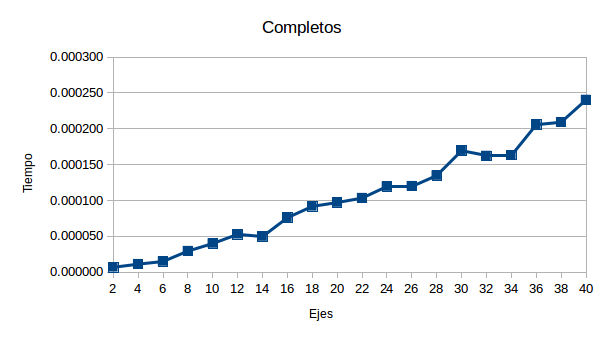
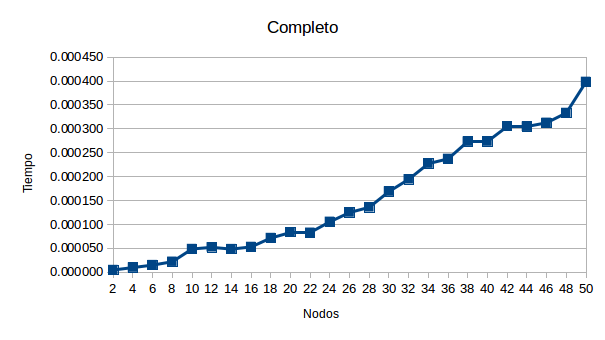
ej2

diff --git a/TP3/Informe/ej2.tex b/TP3/Informe/ej2.tex
@@ -16,13 +16,17 @@ En ella va a quedar la soluci\'on buscada luego de correr el algoritmo.\\
 
 La poda que implementamos consisti\'o en verificar que una futura soluci\'on posible no cuente con una cantidad igual o superior de nodos que la soluci\'on \'optima obtenida hasta el momento. 
 Esto quiere decir que si la \'optima actual consiste de $k$ nodos y nos encontramos ante la pregunta de agregar un nuevo nodo a una posible soluci\'on de $k - 1$ nodos, \'esta ser\'a a lo sumo 
-tan buena como la que ya ten\'iamos, por lo que no nos resulta \'util contemplarla. De esta forma, se descartan r\'apidamente todas las soluciones peores o iguales que la actual.
+tan buena como la que ya ten\'iamos, por lo que no nos resulta \'util contemplarla. De esta forma, se descartan r\'apidamente todas las soluciones peores o iguales que la actual.\\
+
+Otra poda posible consist\'ia en separar cada una de las componentes conexas del grafo y, para cada una de ellas, buscar el m\'inimo conjunto independiente maximal.
+Luego, uniendo todos estos resultados, se obtiene el conjunto deseado del grafo.\\
 \textcolor{red}{... completar}
 
-Y las estrategias fueron \textcolor{red}{... completar}\\
+Una estrategia podr\'ia ser verificar si agregar el nodo actual me va a resultar \'util. Es decir, por ejemplo, si estoy agregando un vecino de un nodo que ya se encuentra en el conjunto, este no ser\'a \'util ya que
+la soluci\'on no ser\'ia maximal. De esta forma, podr\'iamos evitar revisar aquellos conjuntos.\\
+\textcolor{red}{... completar}\\
 
-Poner el pseudocodigo...
-
+\newpage
 \begin{algorithm}[h!]
 \caption{algoritmo exacto}
 
@@ -58,7 +62,7 @@ Para cada uno de los subconjuntos, el algoritmo verifica si cumple la funci\'on 
 tiene una complejidad en peor caso de $O(n^2)$.	De esta forma, nuestro algoritmo tiene complejidad $O(2^n * n^2)$, lo que es equivalente a $O(2^n)$.\\
 
 Al tener en cuenta la poda utilizada, se puede ver que la misma no disminuye la complejidad te\'orica planteada dado que en el peor caso, podr\'ia haber que recorrer completamente el conjunto de partes.
-De todas formas, dicha poda mejora notablemente los tiempos de ejecuci\'on del algoritmo, como veremos m\'as adelante, ya que descarta las soluciones peores que la \'optima hasta el momento.
+De todas formas, dicha poda mejora notablemente los tiempos de ejecuci\'on del algoritmo, como veremos m\'as adelante, ya que descarta las soluciones peores que la \'optima hasta el momento.\\
 
 \newpage
 \subsection{Experimentaci\'on}
@@ -71,7 +75,8 @@ Aquellas instancias que tardaban mucho m\'as tiempo, determinamos que los outlie
 
 \subsubsection{Mejor caso}
 De acuerdo a c\'omo fue planteado nuestro algoritmo, se puede ver que el mejor caso posible ser\'a cuando los grafos pasados por par\'ametro sean completos.
-Esto es as\'i debido a la poda implementada: cuando considera al primer nodo, encuentra una posible soluci\'on y luego descarta r\'apidamente todas las dem\'as, ya que una soluci\'on con un solo nodo debe ser necesariamente una soluci\'on \'optima.\\
+Esto es as\'i debido a la poda implementada: cuando considera al primer nodo, encuentra una posible soluci\'on y luego descarta r\'apidamente todas las dem\'as, ya que una soluci\'on con un solo nodo 
+ser\'a necesariamente una soluci\'on \'optima.\\
 
 \textcolor{red}{Tabla}
 
@@ -83,7 +88,8 @@ Esto es as\'i debido a la poda implementada: cuando considera al primer nodo, en
    \end{center}
  \end{figure}
 
-Se puede ver que el gr\'afico tiende a una recta, lo que era esperable ya que encontrar\'a la soluci\'on en el primer nodo, pero luego deber\'a descartar los siguientes $n$ nodos, teniendo una complejidad de $O(n)$.\\
+Se puede ver que el gr\'afico no tiene una tendencia exponencial, lo que era esperable ya que encontrar\'a la soluci\'on en el primer nodo, pero luego deber\'a descartar los siguientes $n$ nodos,
+teniendo una complejidad de $O(n^2)$.\\
 
 \newpage
 
@@ -94,7 +100,7 @@ Los tiempos de ejecuci\'on para nodos fijos en 10, 20 y 30 fueron los siguientes
 
   \begin{figure}[h!]
    \begin{center}
- 	\includegraphics[scale=0.4]{imagenes/exacto/10Nodos.png}
+ 	\includegraphics[scale=0.7]{imagenes/exacto/10Nodos.png}
 % 	\caption{}
 	\label{10Nodos}
    \end{center}
@@ -102,18 +108,60 @@ Los tiempos de ejecuci\'on para nodos fijos en 10, 20 y 30 fueron los siguientes
 
   \begin{figure}[h!]
    \begin{center}
- 	\includegraphics[scale=0.4]{imagenes/exacto/20Nodos.png}
+ 	\includegraphics[scale=0.7]{imagenes/exacto/20Nodos.png}
 % 	\caption{}
 	\label{20Nodos}
    \end{center}
  \end{figure}
    \begin{figure}[h!]
    \begin{center}
- 	\includegraphics[scale=0.4]{imagenes/exacto/30Nodos.png}
+ 	\includegraphics[scale=0.7]{imagenes/exacto/30Nodos.png}
 % 	\caption{}
 	\label{30Nodos}
    \end{center}
  \end{figure}
  
 Como podemos ver, en todos los casos ocurre algo similar: cuando no tienen ejes la ejecuci\'on es m\'as lenta, ya que debe recorrer todas las posibles opciones del conjunto de partes, sin lograr descartar ninguna.
-A medida que se van agregando ejes, los tiempos van decreciendo y tienden a ser m\'as lineales, ya que gracias a la poda, no es necesario recorrer todas las posibles soluciones.
+A medida que se van agregando ejes, los tiempos van decreciendo ya que gracias a la poda implementada, no es necesario recorrer todas las posibles soluciones.\\
+
+\subsubsection{Ejes fijos}
+En esta secci\'on podremos ver el comportamiento exponencial del ejercicio, ya que se mantuvo fija la cantidad de ejes, pero fue aumentando la cantidad de nodos.
+Los resultados de los tiempos de ejecucion, con 45 y 90 ejes fijos fueron:\\
+\textcolor{red}{TABLA}
+
+   \begin{figure}[h!]
+   \begin{center}
+ 	\includegraphics[scale=0.7]{imagenes/exacto/45Ejes.png}
+% 	\caption{}
+	\label{45Ejes}
+   \end{center}
+ \end{figure}
+ 
+    \begin{figure}[h!]
+   \begin{center}
+ 	\includegraphics[scale=0.7]{imagenes/exacto/90Ejes.png}
+% 	\caption{}
+	\label{30Nodos}
+   \end{center}
+ \end{figure}
+ 
+Como preve\'iamos, se puede ver que los valores van aumentando exponencialmente en ambos casos, lo cual nos indica que la complejidad temporal depende directamente de la cantidad de nodos que tenga
+el grafo.
+De todas formas, en algunos casos es posible ver el efecto que tiene la poda, ya que el tiempo de ejecuci\'on no aument\'o exponencialmente, por ejemplo, entre los casos con 32 y 34 nodos, con 45 ejes fijos.
+Veremos que esto no ocurre en el peor caso.\\
+
+\subsubsection{Sin ejes}
+El peor caso para nuestro algoritmo se da cuando el grafo pasado por par\'ametro no cuenta con ning\'un eje. Esto es as\'i porque deber\'a revisar todos los posibles conjuntos dentro del conjunto de partes,
+intentando encontrar uno mejor que el que utiliza todos los nodos. Claramente esto no es posible, ya que al no contar con ejes, aquella es la \'unica soluci\'on posible.\\
+Los tiempos de ejecuci\'on para los distintos grafos sin ejes fueron:\\
+\textcolor{red}{TABLA}
+
+   \begin{figure}[h!]
+   \begin{center}
+ 	\includegraphics[scale=0.7]{imagenes/exacto/Vacios.png}
+% 	\caption{}
+	\label{Vacio}
+   \end{center}
+ \end{figure}
+
+Aqu\'i se ve claramente que los tiempos aumentan exponencialmente en cada paso, lo que confirma nuestra complejidad temporal te\'orica de $O(2^n)$.
